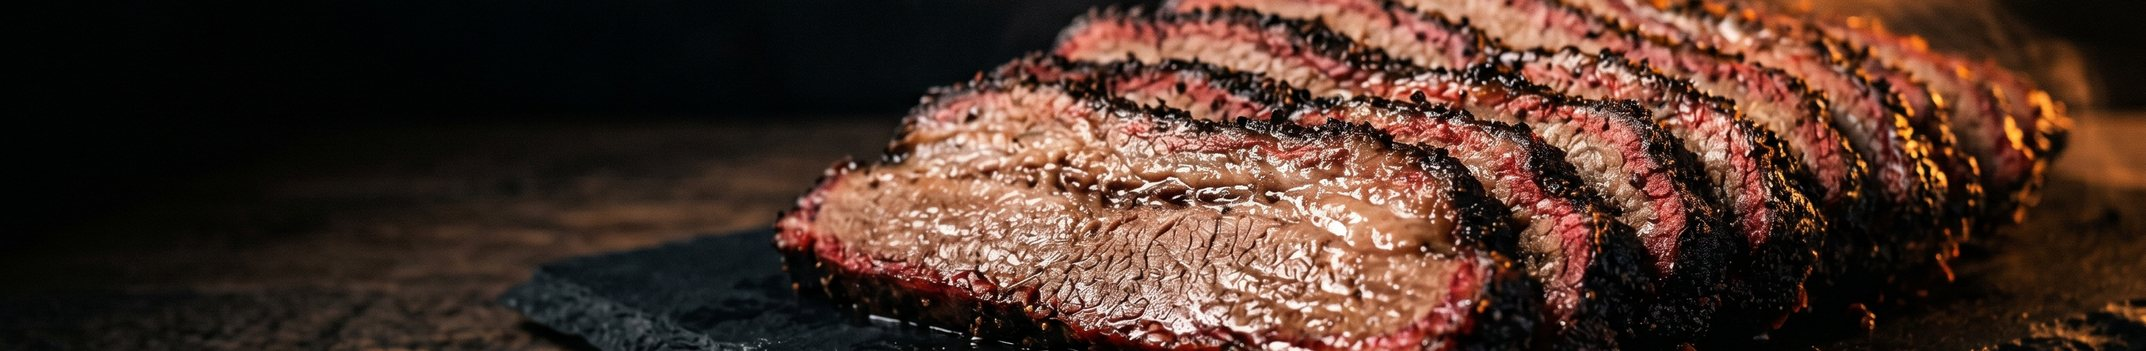
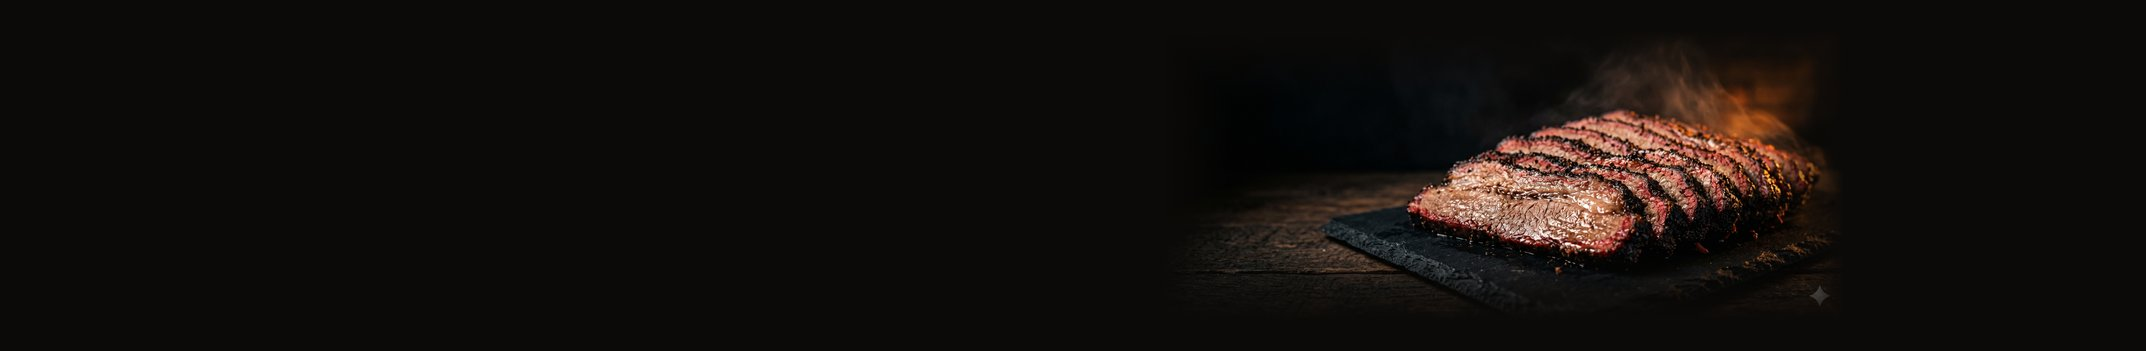
Brisket & sides: show whole dish zoomed-out on feathered dark canvas + gentle Ken Burns (no cut)

diff --git a/index.html b/index.html
@@ -379,12 +379,12 @@ header.nav.scrolled{
   transition:scale .6s var(--ease), opacity .5s var(--ease); will-change:transform, translate;
 }
 /* each row: own direction + own speed -> they never move in sync (feels random/alive) */
-.dish:nth-child(1) .dish-bg{ animation:kb1 11s ease-in-out infinite alternate }
+.dish:nth-child(1) .dish-bg{ animation:kbcalm 13s ease-in-out infinite alternate }   /* brisket: padded whole-dish -> gentle zoom */
 .dish:nth-child(2) .dish-bg{ animation:kb2 13s ease-in-out infinite alternate }
 .dish:nth-child(3) .dish-bg{ animation:kb3 9.5s ease-in-out infinite alternate }
 .dish:nth-child(4) .dish-bg{ animation:kb4 14s ease-in-out infinite alternate }
 .dish:nth-child(5) .dish-bg{ animation:kb5 10.5s ease-in-out infinite alternate }
-.dish:nth-child(6) .dish-bg{ animation:kb6 12.5s ease-in-out infinite alternate }
+.dish:nth-child(6) .dish-bg{ animation:kbcalm 12.5s ease-in-out infinite alternate }   /* sides: padded whole-dish -> gentle zoom */
 .dish::after{ /* dark grade keeps the big text readable; light on the right so the photo shows */
   content:''; position:absolute; inset:0; z-index:-1; pointer-events:none;
   background:linear-gradient(90deg, rgba(12,10,8,.9) 0%, rgba(12,10,8,.55) 45%, rgba(12,10,8,.2) 100%);
@@ -397,6 +397,8 @@ header.nav.scrolled{
 @keyframes kb4{ 0%{transform:scale(1.22) translate(1.8%,-1.4%)}  100%{transform:scale(1.11) translate(-2%,1.6%)} }
 @keyframes kb5{ 0%{transform:scale(1.10) translate(2%,-0.5%)}    100%{transform:scale(1.20) translate(-1.8%,1.8%)} }
 @keyframes kb6{ 0%{transform:scale(1.20) translate(-1.6%,-1.8%)} 100%{transform:scale(1.11) translate(1.8%,1.4%)} }
+/* gentle variant for padded whole-dish photos (brisket, sides) so the dish never gets cut */
+@keyframes kbcalm{ 0%{transform:scale(1.0) translate(0,0)} 100%{transform:scale(1.06) translate(-1%,-.6%)} }
 .dish::before{ /* ember underline sweeps across on hover */
   content:''; position:absolute; left:0; bottom:-1px; height:2px; width:0; background:var(--ember); z-index:1;
   transition:width .55s var(--ease);